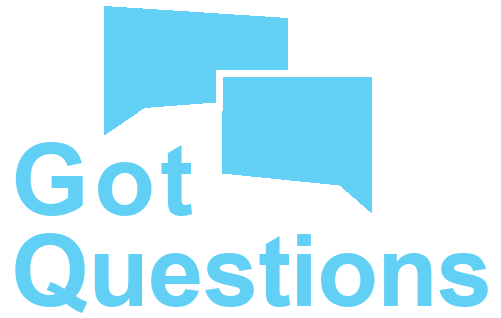
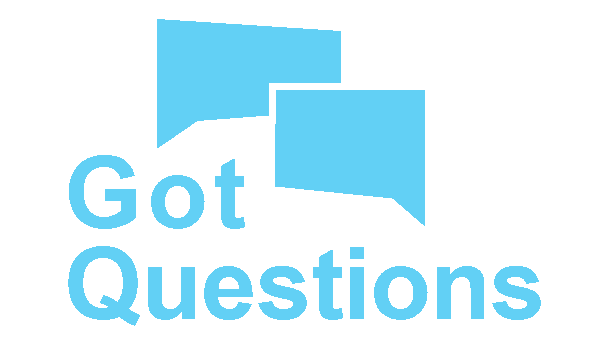
[95] Update Default Media Assets to 16:9

Changed region(s): [[0.0299, 0.0, 0.7485, 0.6792], [0.0299, 0.7075, 0.988, 0.9906]]

diff --git a/src/5-Content/content-widgets.tsx b/src/5-Content/content-widgets.tsx
@@ -11,17 +11,17 @@ const THROUGH_THE_WORD = require('../../assets/through-the-word.png');
 
 export const ContentThumbnail = (props:{imageUri:string|undefined, contentSource:ContentSourceEnum, onPress?:()=>void, style?:ImageStyle}):JSX.Element => {
  
-    const getDefaultThumbnail = (itemSource:ContentSourceEnum) =>
-        itemSource === 'GOT_QUESTIONS' ? GOT_QUESTIONS
-        : itemSource === 'BIBLE_PROJECT' ? BIBLE_PROJECT
-        : itemSource === 'THROUGH_THE_WORD' ? THROUGH_THE_WORD
+    const getDefaultThumbnail = () =>
+        props.contentSource === ContentSourceEnum.GOT_QUESTIONS ? GOT_QUESTIONS
+        : props.contentSource === ContentSourceEnum.BIBLE_PROJECT ? BIBLE_PROJECT
+        : props.contentSource === ContentSourceEnum.THROUGH_THE_WORD ? THROUGH_THE_WORD
         : MEDIA_DEFAULT;
 
-    const [image, setImage] = useState<ImageSourcePropType>(getDefaultThumbnail(props.contentSource));
+    const [image, setImage] = useState<ImageSourcePropType>(getDefaultThumbnail());
     const [aspectRatio, setAspectRatio] = useState<number>(1);
 
     const setDefaultThumbnail = () => {
-        const defaultThumbnail = getDefaultThumbnail(props.contentSource);
+        const defaultThumbnail = getDefaultThumbnail();
         const { width, height } = Image.resolveAssetSource(defaultThumbnail);
         setImage(defaultThumbnail);
         setAspectRatio(width / height);

diff --git a/src/5-Content/ContentCard.tsx b/src/5-Content/ContentCard.tsx
@@ -15,21 +15,20 @@ import { ContentThumbnail } from './content-widgets';
 
 
 interface ContentCardProps {
-  key:string,
   item:ContentListItem;
   onPress?:(item:ContentListItem) => void;
   style?:StyleProp<ViewStyle>;
   onKeywordPress?:(keyword:string) => void;
 }
 
-const ContentCard: React.FC<ContentCardProps> = ({ key, item, onPress, style, onKeywordPress }) => {
+const ContentCard: React.FC<ContentCardProps> = ({ item, onPress, style, onKeywordPress }) => {
 
   const userID = useAppSelector((state: RootState) => state.account.userID);  
   const [showDescription, setShowDescription] = useState(false);
   const [showYouTube, setShowYouTube] = useState(false);
 
   return (
-    <View key={`content-${key}`} style={StyleSheet.flatten([styles.card, style])} >
+    <View style={StyleSheet.flatten([styles.card, style])} >
         <ContentThumbnail imageUri={item.image} contentSource={item.source} onPress={() => {
           if(onPress) onPress(item);
           if(item.url && item.url.length > 5) { //Already filtered by MOBILE_CONTENT_SUPPORTED_SOURCES
